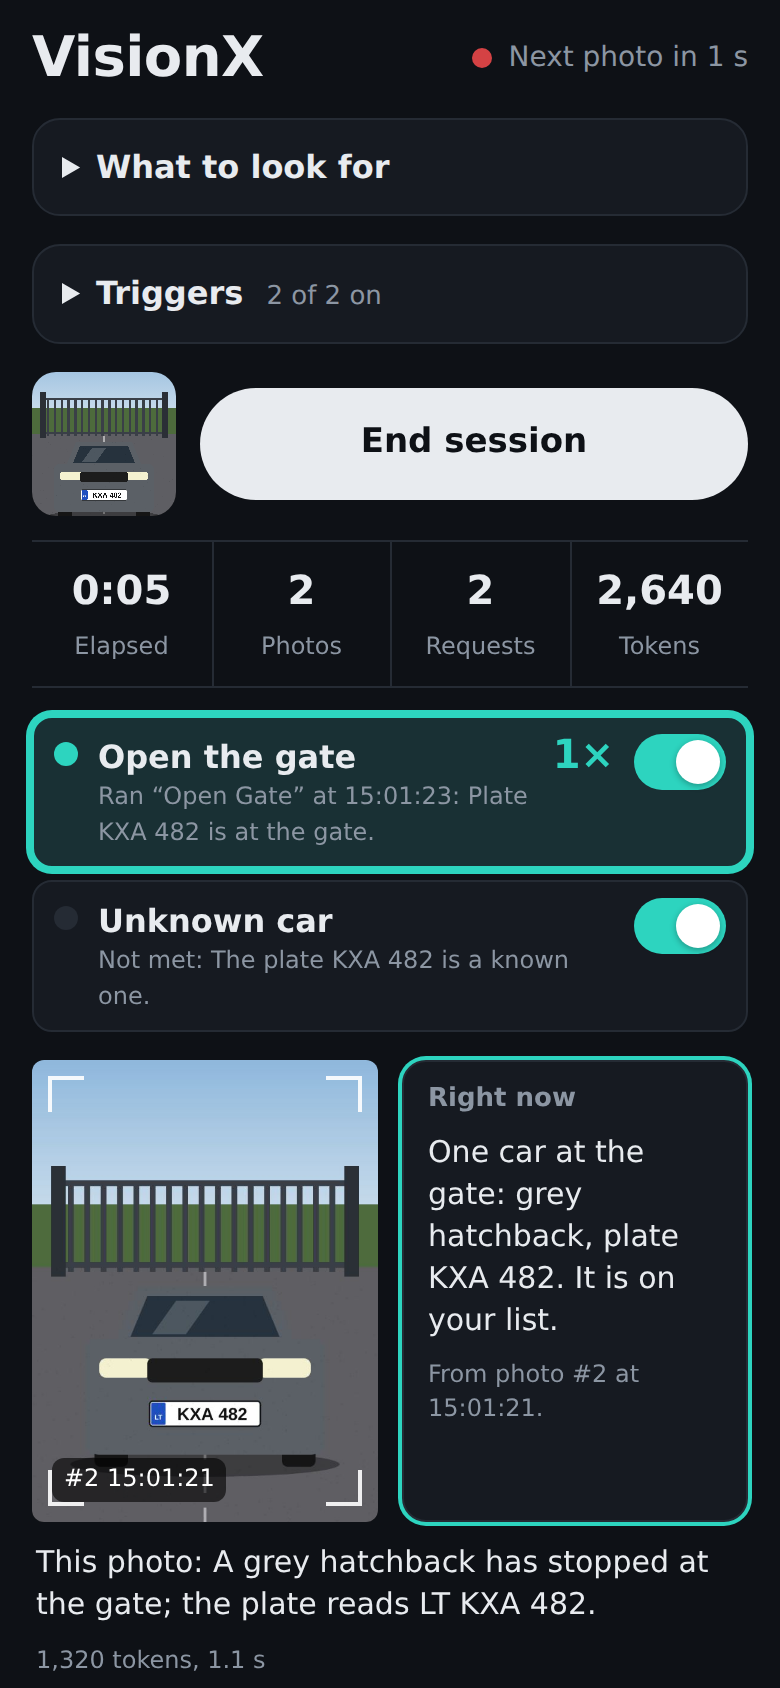
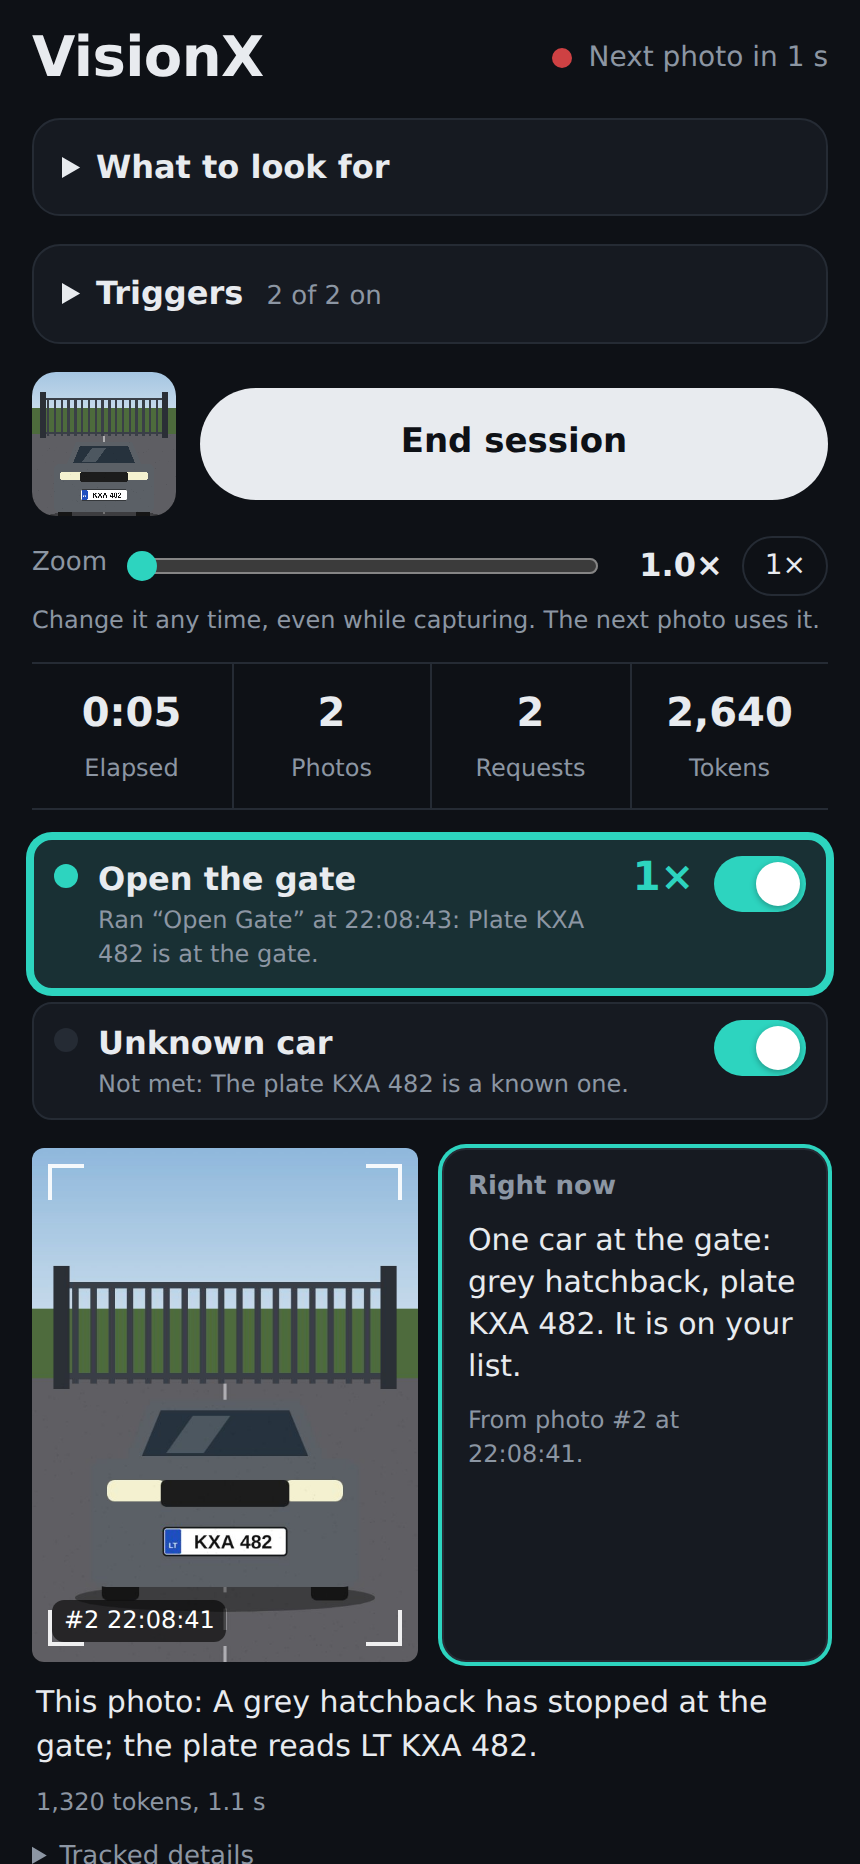
Add zoom control that works while capturing
- Zoom slider (1x-5x) under the Start/End button, usable mid-session
- Uses the camera's own zoom when iOS offers it, digital crop beyond that
- Live preview grows briefly while zooming so you can aim
- Refreshed README screenshots

diff --git a/VisionX.js b/VisionX.js
@@ -356,8 +356,16 @@ textarea:focus,input:focus,select:focus{outline:none;border-color:var(--ink)}
 .chip:focus-visible{outline:3px solid var(--done);outline-offset:2px}
 
 .control{display:flex;align-items:center;gap:12px;margin-bottom:12px}
-.live{width:72px;height:72px;border-radius:12px;object-fit:cover;background:#000;flex:none}
-.live.mirror{transform:scaleX(-1)}
+.liveWrap{width:72px;height:72px;border-radius:12px;overflow:hidden;background:#000;flex:none;transition:width .25s,height .25s}
+.liveWrap.aiming{width:150px;height:150px}
+.live{display:block;width:100%;height:100%;object-fit:cover;transform-origin:center}
+.zoomRow{display:flex;align-items:center;gap:10px;margin:-2px 0 12px}
+.zoomRow label{margin:0;font-size:13px;color:var(--graphite);flex:none}
+.zoomRow input[type=range]{flex:1;width:auto;margin:0;padding:0;background:transparent;border:0;accent-color:var(--done);height:28px}
+.zoomRow output{flex:none;min-width:3.2em;text-align:right;font-weight:600}
+.zoomRow .chip{height:30px;padding:0 10px;flex:none}
+.zoomHint{font-size:12px;color:var(--graphite);margin:-8px 0 12px}
+@media (prefers-reduced-motion:reduce){.liveWrap{transition:none}}
 .btn{
   flex:1;height:56px;border:0;border-radius:28px;font:600 17px/1 -apple-system,system-ui,sans-serif;
   color:#fff;background:var(--rec);cursor:pointer;
@@ -546,9 +554,16 @@ textarea:focus,input:focus,select:focus{outline:none;border-color:var(--ink)}
   </details>
 
   <div class="control">
-    <video id="live" class="live" playsinline muted autoplay></video>
+    <div class="liveWrap" id="liveWrap"><video id="live" class="live" playsinline muted autoplay></video></div>
     <button id="toggle" class="btn">Start session</button>
   </div>
+  <div class="zoomRow" id="zoomRow">
+    <label for="zoom">Zoom</label>
+    <input id="zoom" type="range" min="1" max="5" step="0.1" value="1" aria-describedby="zoomHint">
+    <output id="zoomVal" class="num" for="zoom">1.0×</output>
+    <button type="button" class="chip" id="zoomReset">1×</button>
+  </div>
+  <div class="zoomHint" id="zoomHint">Change it any time, even while capturing. The next photo uses it.</div>
 
   <div class="strip num">
     <div><b id="sElapsed">0:00</b><span>Elapsed</span></div>
@@ -641,6 +656,7 @@ const PAGE_JS = String.raw`
     detail: "auto",
     maxSide: 768,
     facing: "environment",
+    zoom: 1,
     engine: BOOT.apiKey ? "openai" : "apple",
     shortcut: BOOT.defaultShortcut,
     checkShortcut: "Vision Session Check",
@@ -655,6 +671,8 @@ const PAGE_JS = String.raw`
   let flashTimer = null;
   let editingTrigger = null;
   let shortcutChain = Promise.resolve();
+  let zoomState = { camera: 1, digital: 1 }; // camera = lens zoom applied by iOS, digital = crop on top
+  let zoomTimer = null, aimTimer = null;
   let rowEls = {};
   let shownSummary = "";
   let freshTimer = null;
@@ -674,6 +692,7 @@ const PAGE_JS = String.raw`
   persist();
   wireAccount();
   wireTriggers();
+  wireZoom();
   $("accumulate").addEventListener("change", () => { cfg.accumulate = $("accumulate").checked; persist(); updateModeUI(); });
   updateModeUI();
   $("checkShortcut").addEventListener("change", () => { cfg.checkShortcut = $("checkShortcut").value.trim() || DEFAULTS.checkShortcut; persist(); });
@@ -689,7 +708,9 @@ const PAGE_JS = String.raw`
     const apple = isApple();
     document.querySelectorAll(".oa").forEach((n) => n.classList.toggle("hidden", apple));
     $("appleBox").classList.toggle("hidden", !apple);
-    $("live").classList.toggle("hidden", apple);
+    $("liveWrap").classList.toggle("hidden", apple);
+    $("zoomRow").classList.toggle("hidden", apple);
+    $("zoomHint").classList.toggle("hidden", apple);
     $("checkBox").classList.toggle("hidden", !apple || isMoment());
   }
 
@@ -1217,14 +1238,72 @@ const PAGE_JS = String.raw`
       throw new Error("This WebView doesn't expose the camera API.");
     }
     sess.stream = await navigator.mediaDevices.getUserMedia({
-      video: { facingMode: { ideal: cfg.facing }, width: { ideal: 1280 }, height: { ideal: 720 } },
+      video: { facingMode: { ideal: cfg.facing }, width: { ideal: 1920 }, height: { ideal: 1080 } },
       audio: false,
     });
     const v = $("live");
-    v.classList.toggle("mirror", cfg.facing === "user");
     v.srcObject = sess.stream;
     await v.play().catch(() => {});
     await waitForVideo(v);
+    await applyZoom(sess);
+  }
+
+  // ── zoom ──
+  // Uses the camera's own zoom when iOS offers it (sharper), and crops the
+  // frame for anything beyond that (digital zoom).
+  async function applyZoom(sess) {
+    const want = Math.max(1, Number(cfg.zoom) || 1);
+    let camera = 1;
+    const track = sess.stream && sess.stream.getVideoTracks ? sess.stream.getVideoTracks()[0] : null;
+    if (track && track.getCapabilities) {
+      let caps = null;
+      try { caps = track.getCapabilities(); } catch (_) {}
+      if (caps && caps.zoom && typeof caps.zoom.max === "number" && caps.zoom.max > 1) {
+        const target = Math.min(caps.zoom.max, Math.max(caps.zoom.min || 1, want));
+        try {
+          await track.applyConstraints({ advanced: [{ zoom: target }] });
+          camera = target;
+        } catch (_) {}
+      }
+    }
+    zoomState = { camera: camera, digital: Math.max(1, want / camera) };
+    updateZoomUI();
+  }
+
+  function updateZoomUI() {
+    const z = Math.max(1, Number(cfg.zoom) || 1);
+    $("zoom").value = String(z);
+    $("zoomVal").textContent = z.toFixed(1) + "\u00D7";
+    const v = $("live");
+    const mirror = cfg.facing === "user" ? "scaleX(-1) " : "";
+    v.style.transform = mirror + "scale(" + zoomState.digital + ")";
+    let kind = "";
+    if (S.stream && z > 1) {
+      kind = zoomState.camera > 1 && zoomState.digital > 1.01 ? " Camera zoom plus digital zoom."
+        : zoomState.camera > 1 ? " Camera zoom."
+        : " Digital zoom: the photo is cropped, so detail drops as you zoom in.";
+    }
+    $("zoomHint").textContent = "Change it any time, even while capturing. The next photo uses it." + kind;
+  }
+
+  function wireZoom() {
+    const setZoom = (z) => {
+      cfg.zoom = Math.round(Math.min(5, Math.max(1, z)) * 10) / 10;
+      // Preview straight away; settle the camera zoom once the slider stops.
+      zoomState.digital = Math.max(1, cfg.zoom / zoomState.camera);
+      updateZoomUI();
+      clearTimeout(zoomTimer);
+      zoomTimer = setTimeout(() => { if (S.stream) applyZoom(S); persist(); }, 200);
+      // Enlarge the live preview briefly so you can aim.
+      if (S.stream) {
+        $("liveWrap").classList.add("aiming");
+        clearTimeout(aimTimer);
+        aimTimer = setTimeout(() => $("liveWrap").classList.remove("aiming"), 1500);
+      }
+    };
+    $("zoom").addEventListener("input", () => setZoom(parseFloat($("zoom").value)));
+    $("zoomReset").addEventListener("click", () => setZoom(1));
+    updateZoomUI();
   }
   // Running a trigger shortcut switches apps, which can stop the camera. Reopen it if so.
   async function ensureCamera(sess) {
@@ -1252,14 +1331,17 @@ const PAGE_JS = String.raw`
     const v = $("live");
     const w = v.videoWidth, h = v.videoHeight;
     if (!w || !h) throw new Error("The camera isn't delivering frames. Keep the app in the foreground.");
-    const scale = Math.min(1, cfg.maxSide / Math.max(w, h));
+    const d = Math.max(1, zoomState.digital || 1);
+    const sw = w / d, sh = h / d, sx = (w - sw) / 2, sy = (h - sh) / 2;
+    const scale = Math.min(1, cfg.maxSide / Math.max(sw, sh));
     const cv = $("cv");
-    cv.width = Math.round(w * scale);
-    cv.height = Math.round(h * scale);
-    cv.getContext("2d").drawImage(v, 0, 0, cv.width, cv.height);
-    return cv.toDataURL("image/jpeg", 0.8);
+    cv.width = Math.round(sw * scale);
+    cv.height = Math.round(sh * scale);
+    cv.getContext("2d").drawImage(v, sx, sy, sw, sh, 0, 0, cv.width, cv.height);
+    return cv.toDataURL("image/jpeg", 0.85);
   }
   function stopCamera() {
+    zoomState = { camera: 1, digital: Math.max(1, Number(cfg.zoom) || 1) };
     if (S.stream) S.stream.getTracks().forEach((t) => t.stop());
     if (!S.stream && !$("live").srcObject) return;
     S.stream = null;

diff --git a/README.md b/README.md
@@ -28,6 +28,7 @@
 ## What it does
 
 - **Timed capture.** It takes a photo every N seconds from the live camera, with no tapping.
+- **Zoom while capturing.** Slide from 1× to 5× at any time, even mid-session; the next photo uses it. VisionX uses the camera's own zoom when iOS offers it and crops for anything beyond that.
 - **Your instructions.** It does whatever you describe, such as "Count the different people and summarize them" or "Read the license plate of any car at the gate". Save instructions you like as presets.
 - **Latest photo next to the summary.** The newest photo is large, with the summary beside it. The two photos before it are shown smaller, and that's all: photos are never saved.
 - **Two summary modes.** Each photo can build on one running summary for the whole session, or be judged fresh on its own (see [Modes](#modes)).
